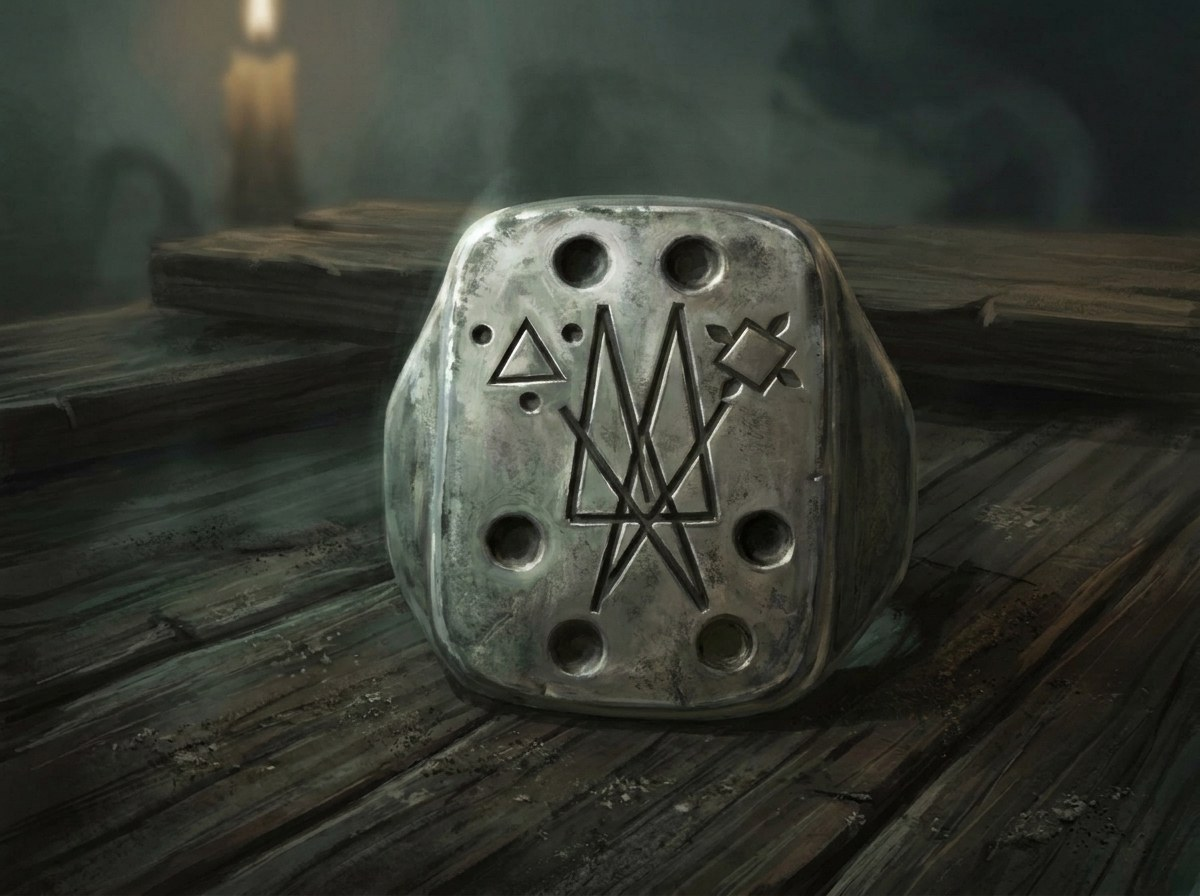
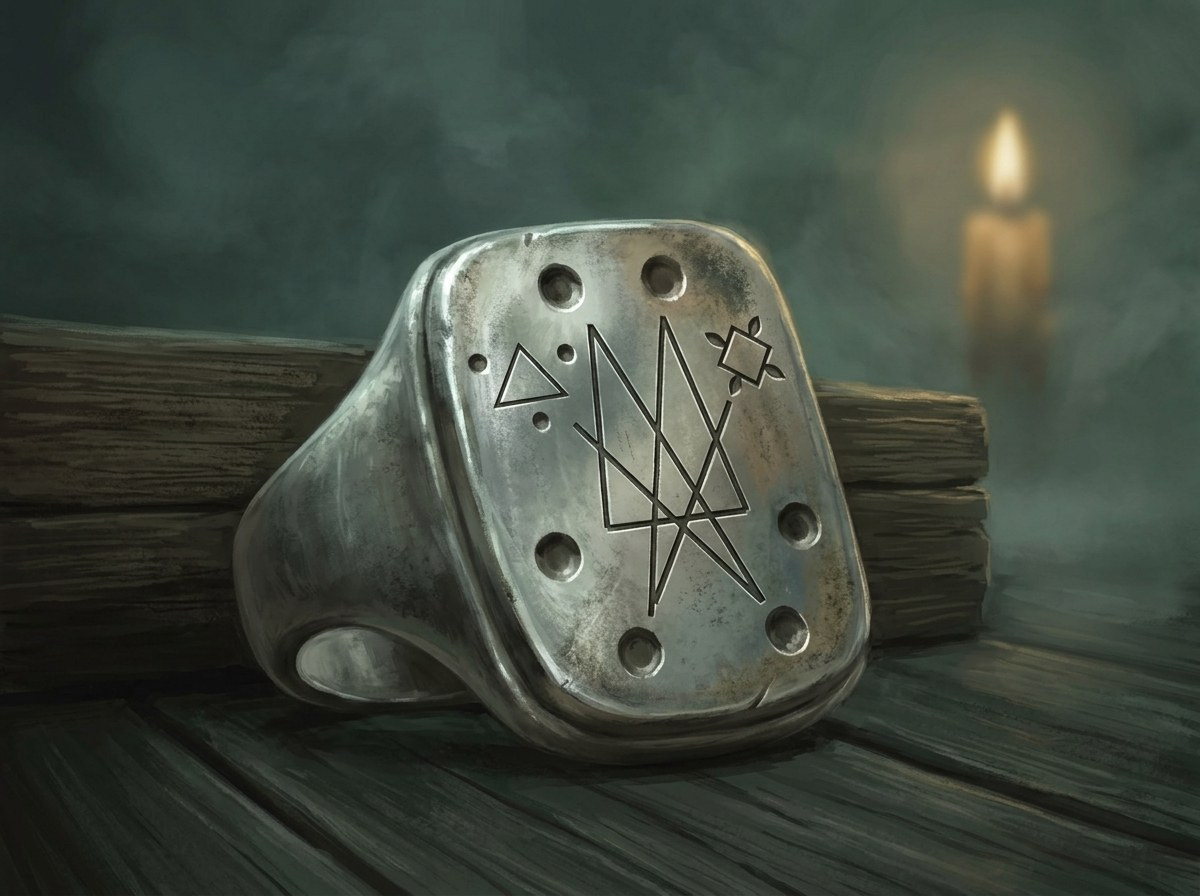
Signet ring: use picture E (rests like a real ring; Chris: perfect)
Claude-Session: https://claude.ai/code/session_01U8i5qX1GqTfmLMSWeLUBqd

diff --git a/content/wiki/signet-ring.md b/content/wiki/signet-ring.md
@@ -9,7 +9,7 @@ source: Compiled from the adventure log, with a description written for the site
 
 ## Description
 
-![A worn silver signet ring standing on dark wooden planks, its tall face engraved with the sigil of dots, a triangle, a pointed square and crossing lines that opened the red seal of Khazan's tower](/images/signet-ring-ai.jpg)
+![A worn silver signet ring leaning against a dark wooden plank, its tall face engraved with the sigil of dots, a triangle, a pointed square and crossing lines that opened the red seal of Khazan's tower](/images/signet-ring-ai.jpg)
 
 *AI-generated image (Google Gemini).*
 
